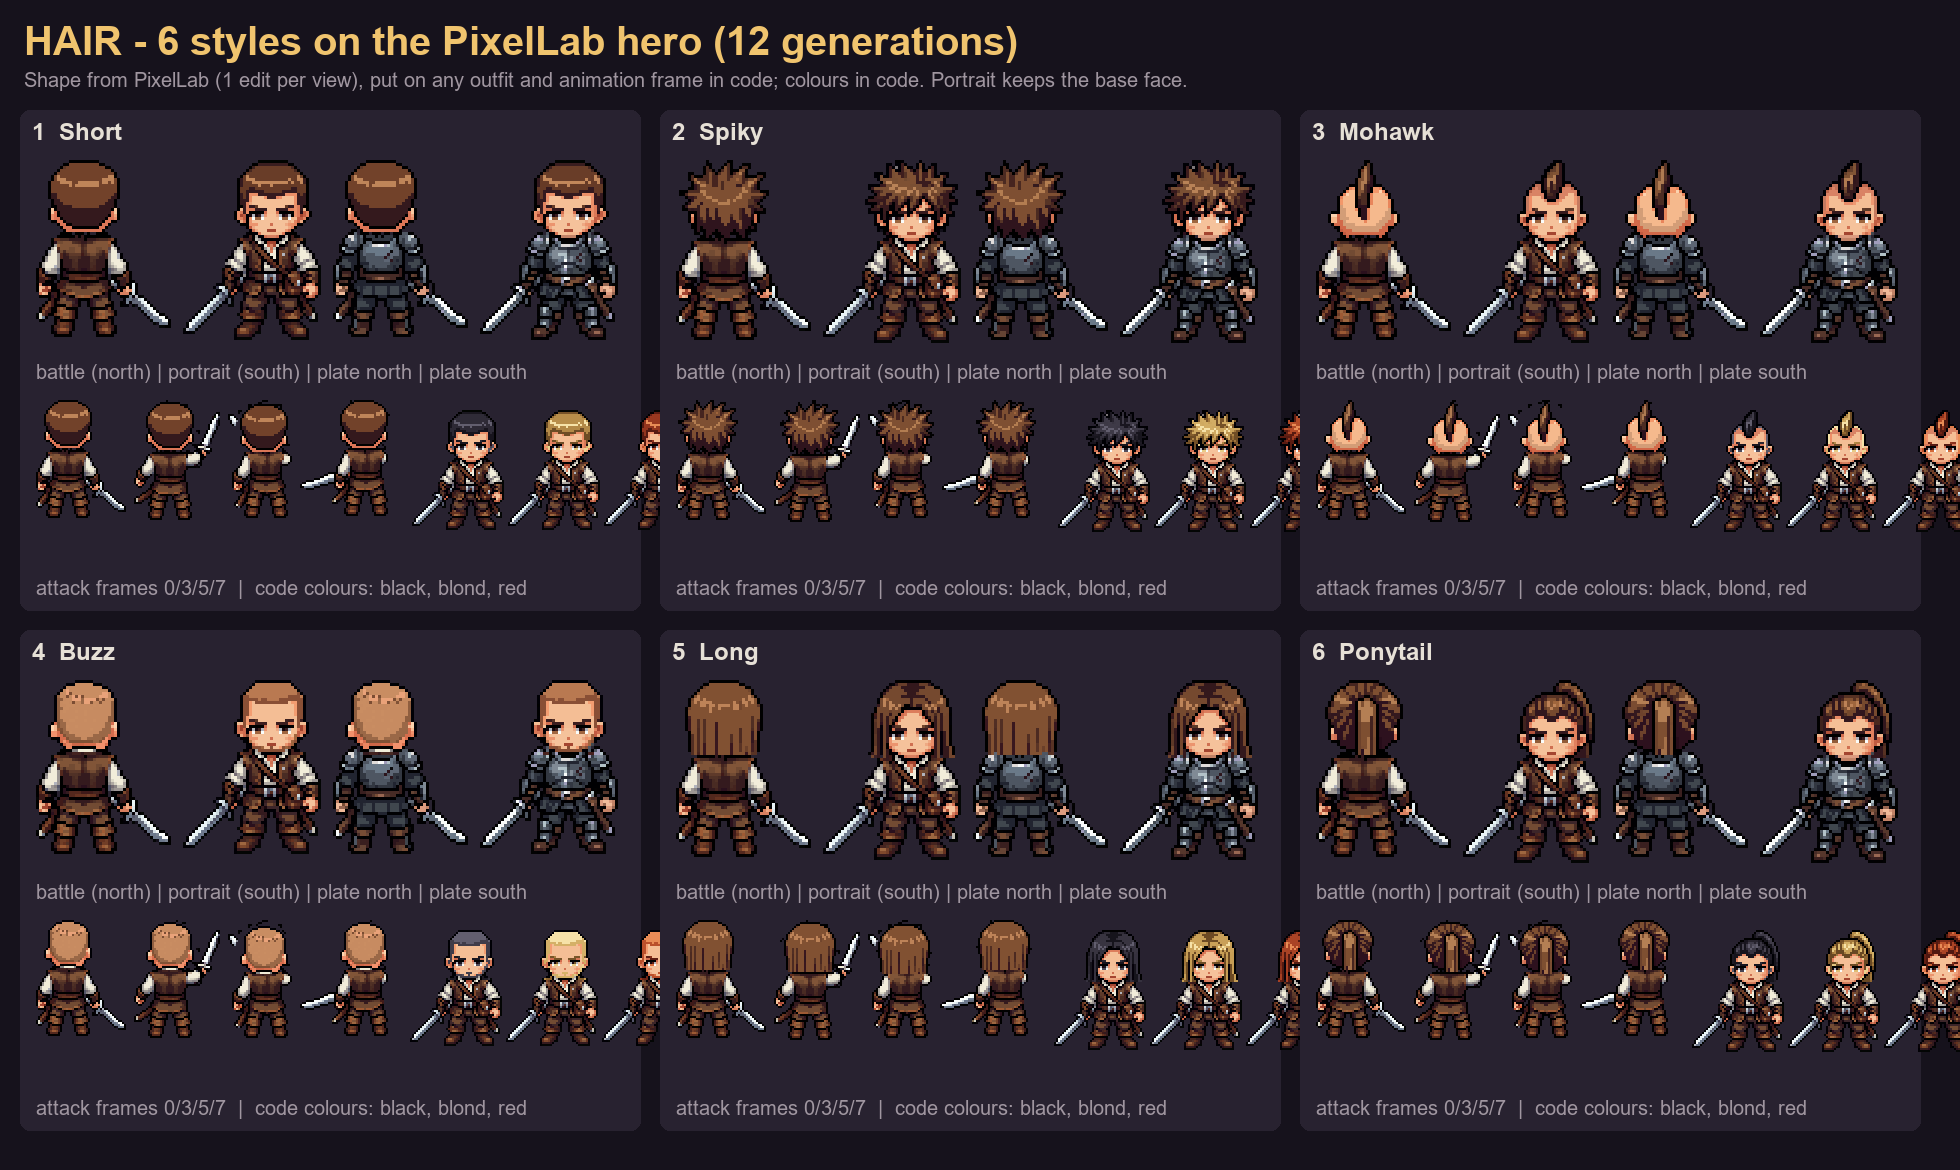
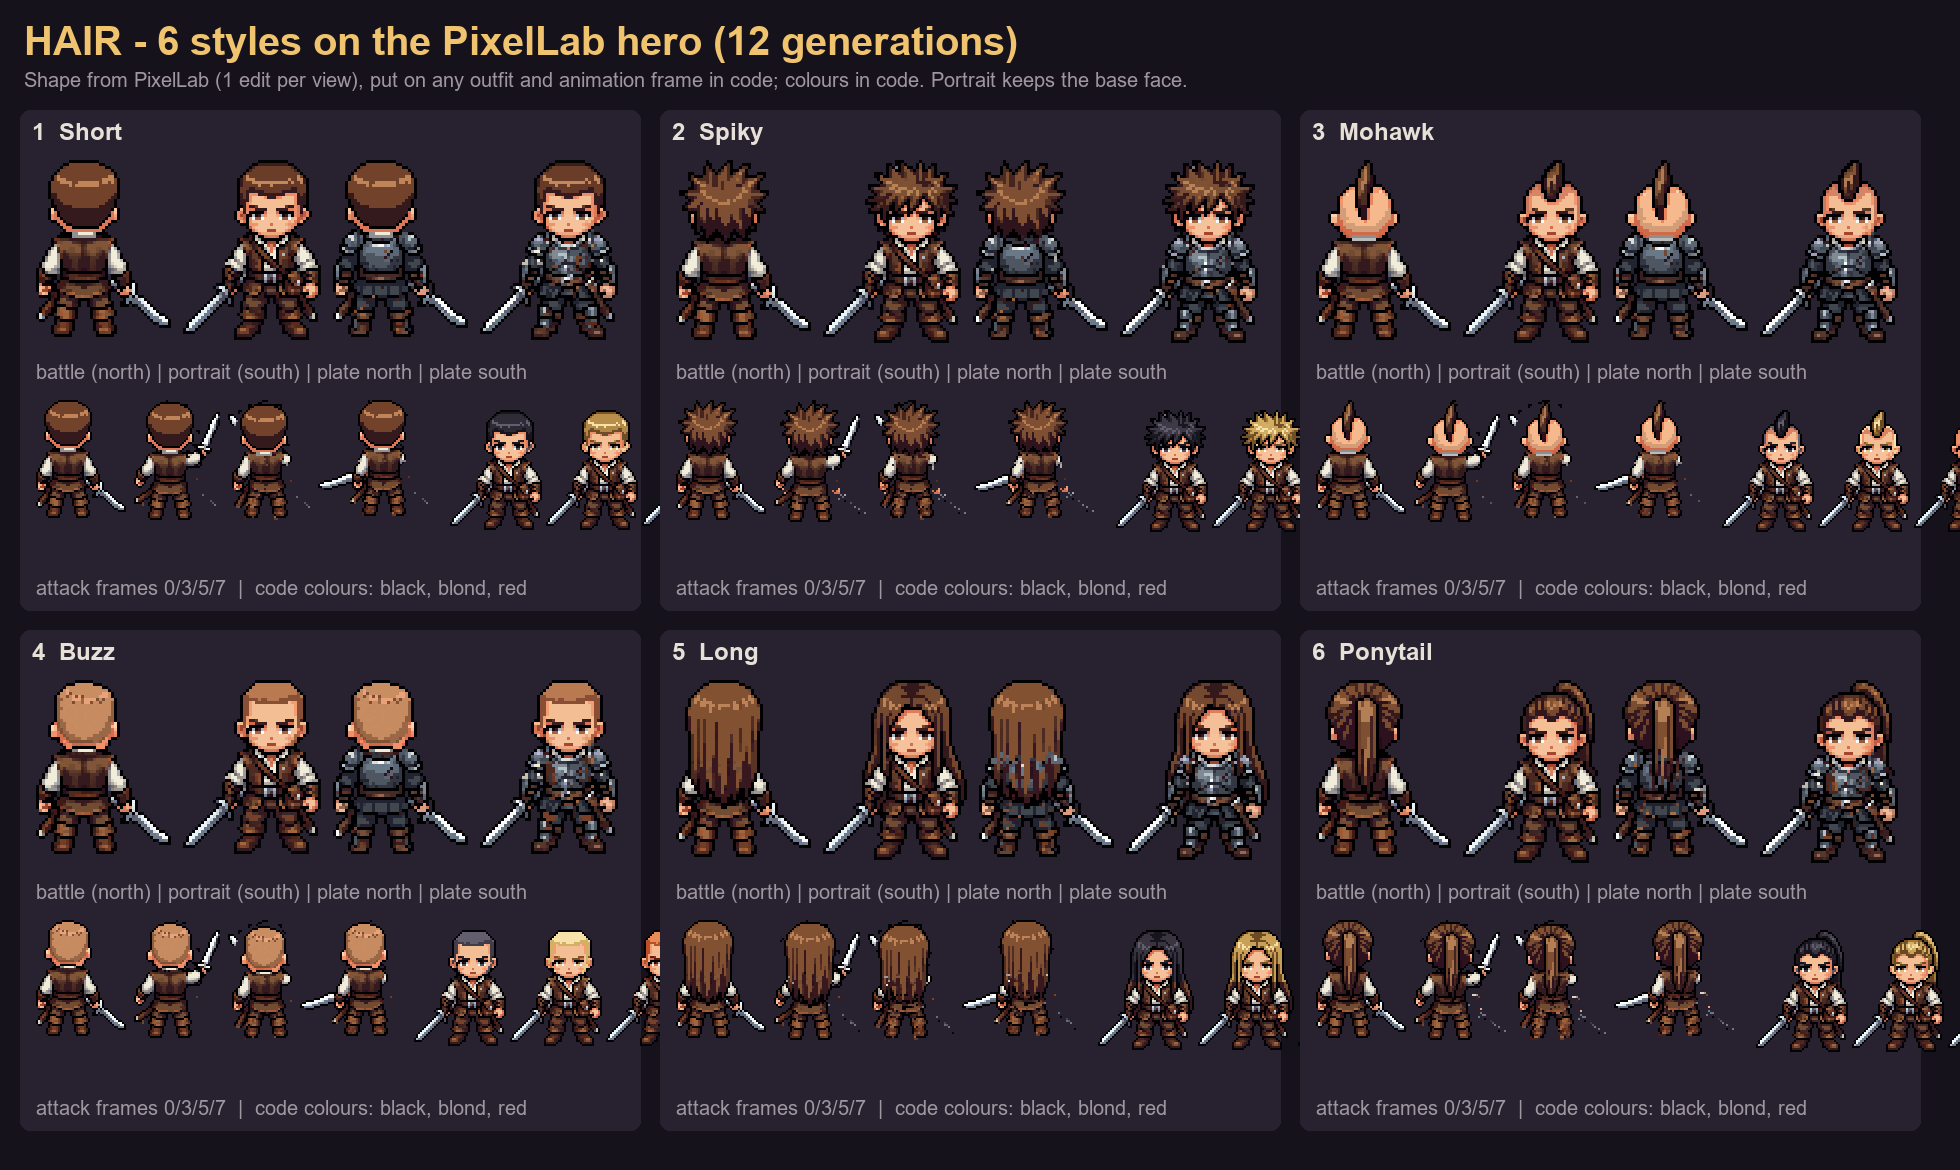
PixelLab hero hair: all 37 old styles (lib/ north+south), numbered library sheets; head swap keeps long hair and the base face
62 generations (60 + 2 retries after PixelLab server errors).

diff --git a/claude/art_test/pixellab/hair/library.py b/claude/art_test/pixellab/hair/library.py
@@ -1,0 +1,44 @@
+"""All 37 old hair styles on the PixelLab hero (HAIR_ORDER from lpc.gd), exported per style + 2 numbered phone sheets.
+/c/ai/ComfyUI/python_embeded/python.exe -I library.py"""
+import os, sys
+from PIL import Image
+HERE = os.path.dirname(os.path.abspath(__file__)); PL = os.path.dirname(HERE)
+sys.path.insert(0, HERE); sys.path.insert(0, os.path.join(PL, "custom")); sys.path.insert(0, os.path.join(PL, "..", "hero", "tools"))
+import headswap as HS, recolour as R
+import make_sheets as MS
+
+ORDER = ["Short", "Spiky", "Side Swept", "Shaggy", "Mohawk", "Short Mohawk", "Buzz", "Bald", "Balding",
+         "Bedhead", "Unkempt", "Porcupine", "Mop", "Parted", "Page", "Bangs", "Long Bangs", "Long", "Very Long", "Wild",
+         "Loose", "Wavy", "Tied Back", "Ponytail", "High Ponytail", "Half Up", "Pigtails", "Bun", "Braid", "Bob", "Pixie",
+         "Princess", "Curly", "Long Curls", "Afro", "Cornrows", "Dreadlocks"]
+def key(n): return n.lower().replace(" ", "_")
+def L(p): return Image.open(p).convert("RGBA")
+def tight(im): return im.crop(im.getbbox())
+BN, BS = L(os.path.join(PL, "rotations", "north.png")), L(os.path.join(PL, "rotations", "south.png"))
+RG = R.ref_ranges([BN, BS])
+os.makedirs(os.path.join(HERE, "lib"), exist_ok=True)
+CARDS = []
+for i, n in enumerate(ORDER):
+    k = key(n)
+    if k == "shaggy":  # the base hero's own hair
+        n_im, s_im = BN, BS
+    else:
+        n_im = HS.swap(BN, BN, L(os.path.join(HERE, "raw", f"{k}_north.png")))
+        s_im = HS.swap(BS, BS, L(os.path.join(HERE, "raw", f"{k}_south.png")), keep_face=BS)
+    n_im.save(os.path.join(HERE, "lib", f"{k}_north.png")); s_im.save(os.path.join(HERE, "lib", f"{k}_south.png"))
+    CARDS.append((i + 1, n, n_im, s_im))
+COLS, CW, CH = 4, 400, 300
+for part, cards in ((1, CARDS[:20]), (2, CARDS[20:])):
+    rows = (len(cards) + COLS - 1) // COLS
+    S = MS.Sheet(20 + COLS * CW, 110 + rows * CH, f"HAIR {part}/2 - old styles on the PixelLab hero",
+                 "Battle view (back) + portrait (front), 3x. Numbers follow the old in-game list. Every style takes every hair colour.")
+    for j, (num, n, ni, si) in enumerate(cards):
+        x0, y0 = 20 + (j % COLS) * CW, 110 + (j // COLS) * CH
+        S.panel(x0, y0, CW - 20, CH - 20, f"{num}  {n}")
+        w, _ = S.put(tight(ni), x0 + 14, y0 + 44, 3)
+        S.put(tight(si), x0 + 14 + w + 14, y0 + 44, 3)
+        if num % 3 == 0:  # a few cards show a code colour so the range is visible
+            c = ["black", "blond", "red", "ash"][(num // 3) % 4]
+            S.put(tight(R.recolour(si, hair=R.HAIR[c], ranges=RG)), x0 + CW - 92, y0 + 150, 2)
+            S.d.text((x0 + CW - 92, y0 + 250), c, font=MS.F_S, fill=MS.DIM)
+    S.im.convert("RGB").save(os.path.join(HERE, f"03_HAIR_library_{part}.png"))

diff --git a/claude/art_test/pixellab/hair/headswap.py b/claude/art_test/pixellab/hair/headswap.py
@@ -14,10 +14,17 @@ def head_bottom(im):
     return int(bb[1] + (bb[3] - bb[1]) * R.HEAD_FRAC)
 
 
-def head_patch(src):
-    """{(x, y): rgba} of the head: everything above the head line plus hair below it (long hair, ponytail)."""
-    hb, px, m = head_bottom(src), src.load(), R.masks(src)
-    return {p: px[p] for p, k in m.items() if p[1] < hb or k == "hair"}
+def head_patch(src, base):
+    """{(x, y): rgba} of the head: everything above the head line, plus every pixel below it that the
+    edit changed from the base rotation (long hair, ponytails and braids falling over the back and shoulders)."""
+    hb, px, bp, m = head_bottom(src), src.load(), base.load(), R.masks(src)
+    out = {p: px[p] for p, k in m.items() if p[1] < hb}
+    for y in range(hb, src.height):
+        for x in range(src.width):
+            a, b = px[x, y], bp[x, y]
+            if a[3] and (not b[3] or sum(abs(a[i] - b[i]) for i in range(3)) > 24):
+                out[(x, y)] = a
+    return out
 
 
 def find_offset(base, frame, r=10):
@@ -66,14 +73,14 @@ def swap(frame, base, hair_img, keep_face=None):
             front[(x, y)] = op[x, y]  # sword stays on top of the new head
         elif k == "hair" or (x, y) in old_head:
             op[x, y] = (0, 0, 0, 0)
-    patch = head_patch(hair_img)
+    patch = head_patch(hair_img, base)
     if keep_face is not None:  # base face, with the new style's hair (bangs) still on top of it
         x0, y0, x1, y1 = face_box(keep_face)
         kp = keep_face.load()
         hm = R.masks(hair_img)
         km = R.masks(keep_face)
         for x in range(x0, x1 + 1):
-            for y in range(y0, y1 + 1):
+            for y in range(y0, max(y1, head_bottom(keep_face) + 3) + 1):  # down to the chin
                 bangs = hm.get((x, y)) == "hair" and y < y0 + 3  # below the eyes 'hair' is stubble: not part of a style
                 if kp[x, y][3] and km.get((x, y)) != "hair" and not bangs:
                     patch[(x, y)] = kp[x, y]
